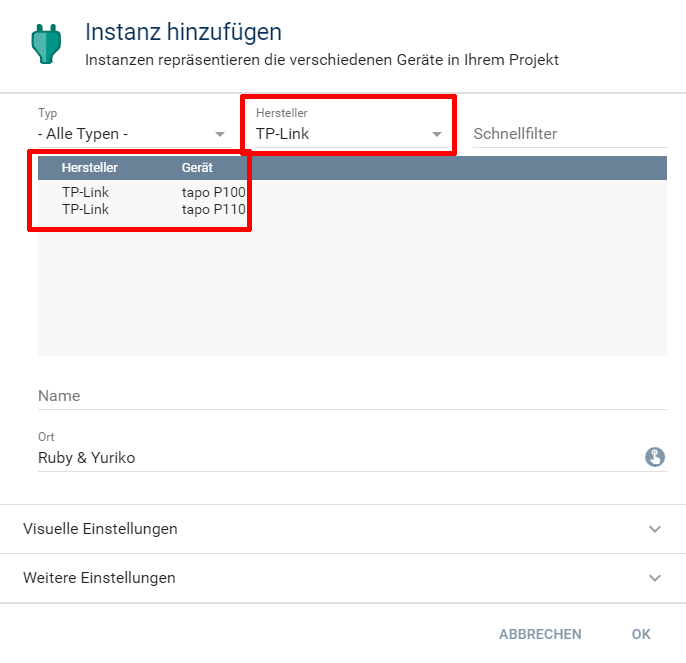
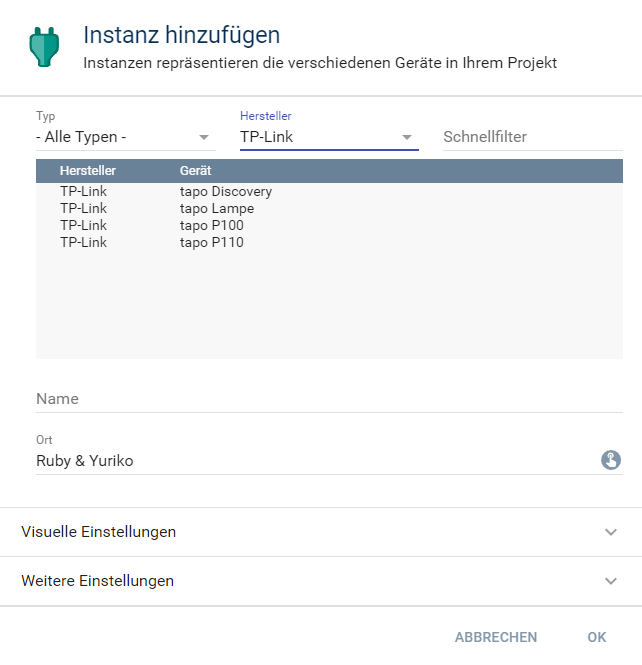
no message

diff --git a/README.md b/README.md
@@ -1,5 +1,5 @@
 [![SDK](https://img.shields.io/badge/Symcon-PHPModul-red.svg)](https://www.symcon.de/service/dokumentation/entwicklerbereich/sdk-tools/sdk-php/)
-[![Version](https://img.shields.io/badge/Modul%20Version-1.50-blue.svg)](https://community.symcon.de/t/modulk-tp-link-tapo-p100-p110/131865)
+[![Version](https://img.shields.io/badge/Modul%20Version-1.60-blue.svg)](https://community.symcon.de/t/modul-tp-link-tapo-smarthome/131865)
 [![Version](https://img.shields.io/badge/Symcon%20Version-6.1%20%3E-green.svg)](https://www.symcon.de/service/dokumentation/installation/migrationen/v60-v61-q1-2022/)  
 [![License](https://img.shields.io/badge/License-CC%20BY--NC--SA%204.0-green.svg)](https://creativecommons.org/licenses/by-nc-sa/4.0/)
 [![Check Style](https://github.com/Nall-chan/SSHClient/workflows/Check%20Style/badge.svg)](https://github.com/Nall-chan/tapo-SmartHome/actions)
@@ -13,97 +13,73 @@ Einbindung der TP-Link tapo SmartHome Geräte
 ## Inhaltsverzeichnis <!-- omit in toc -->
 
 - [1. Funktionsumfang](#1-funktionsumfang)
+  - [1. Nicht Geräte Instanzen](#1-nicht-geräte-instanzen)
+    - [tapo Discovery](#tapo-discovery)
+    - [tapo Configurator](#tapo-configurator)
+    - [tapo Gateway](#tapo-gateway)
+  - [2. Geräte Instanzen](#2-geräte-instanzen)
+    - [tapo Light](#tapo-light)
+    - [tapo P100](#tapo-p100)
+    - [tapo P110](#tapo-p110)
 - [2. Voraussetzungen](#2-voraussetzungen)
 - [3. Software-Installation](#3-software-installation)
 - [4. Einrichten der Instanzen in IP-Symcon](#4-einrichten-der-instanzen-in-ip-symcon)
-- [5. Statusvariablen](#5-statusvariablen)
-- [6. WebFront](#6-webfront)
-- [7. PHP-Funktionsreferenz](#7-php-funktionsreferenz)
-- [8. Aktionen](#8-aktionen)
-- [9. Anhang](#9-anhang)
+- [5. Anhang](#5-anhang)
   - [1. Changelog](#1-changelog)
   - [2. Spenden](#2-spenden)
-- [10. Lizenz](#10-lizenz)
+  - [6. Lizenz](#6-lizenz)
 
-## 1. Funktionsumfang
+# 1. Funktionsumfang
 
-* Lokale Steuerung der WiFi Smart Sockets    
-* Energiewerte auslesen (nur P110)  
+ Komplett lokale Kommunikation mit den Geräten.  
+ Die Geräte müssen aber in der TP-Link/tapo Cloud registriert sein, damit die lokale Anmeldung funktioniert!
 
-## 2. Voraussetzungen
+## 1. Nicht Geräte Instanzen
+
+### [tapo Discovery](Tapo%20Discovery/README.md)  
+ - Auffinden von Geräten und Hubs im Netzwerk und Anlegen der Geräte bzw. Konfigurator-Instanz inklusive Gateway in IPS.  
+
+### [tapo Configurator](Tapo%20Configurator/README.md)  
+ - Einfaches Anlegen von Geräte-Instanzen welche mit einem Smart Hub verbunden sind.  
+  (geplant; [Tester gesucht -> hier melden](https://community.symcon.de/t/modul-tp-link-tapo-smarthome/131865/))
+  
+### [tapo Gateway](Tapo%20Gateway/README.md)  
+ - Smart Hub Instanz als Bindeglied zwischen angelernten tapo Geräten und Symcon.  
+
+## 2. Geräte Instanzen
+
+### [tapo Light](Tapo%20Light/README.md)  
+  *  Lampe und LED Strip  
+
+### [tapo P100](Tapo%20P100/README.md)  
+  *  WiFi Smart Socket  
+
+### [tapo P110](Tapo%20P110/README.md)  
+  *  WiFi Smart Sockets mit Energiemessung   
+  
+# 2. Voraussetzungen
 
 - IP-Symcon ab Version 6.1
 
-## 3. Software-Installation
+# 3. Software-Installation
 
   Über den 'Module-Store' in IPS das Modul 'tapo SmartHome' hinzufügen.  
    **Bei kommerzieller Nutzung (z.B. als Errichter oder Integrator) wenden Sie sich bitte an den Autor.**  
-![Module-Store](imgs/install.png) 
+![Module-Store](imgs/install.png)  
 
-## 4. Einrichten der Instanzen in IP-Symcon
+# 4. Einrichten der Instanzen in IP-Symcon
 
- Unter `Instanz hinzufügen` sind die `tapo P100` und `tapo P110` Instanzen unter dem Hersteller `TP-Link` zu finden.  
- ![Module](imgs/module.png)  
-	- Weitere Informationen zum Hinzufügen von Instanzen in der [Dokumentation der Instanzen](https://www.symcon.de/service/dokumentation/konzepte/instanzen/#Instanz_hinzufügen)
+Details sind direkt in der Dokumentation der jeweiligen Module beschrieben.  
+Es wird empfohlen die Einrichtung mit der Discovery-Instanz zu starten ([tapo Discovery:](Tapo%20Discovery/README.md)).  
 
- ### Konfigurationsseite <!-- omit in toc -->
+# 5. Anhang
 
-**Benutzername und Passwort sind die Cloud/App Zugangsdaten!**  
-![Config](imgs/config.png)  
+## 1. Changelog
 
-| Name       | Text                           | Beschreibung                                                          |
-| ---------- | ------------------------------ | --------------------------------------------------------------------- |
-| Open       | Aktiv                          | Verbindung zu Gerät herstellen                                        |
-| Host       | Host                           | Adresse des Gerätes                                                   |
-| Username   | Benutzername                   | Benutzername für die Anmeldung (TP-Cloud Benutzername: eMail-Adresse) |
-| Password   | Passwort                       | Passwort für die Anmeldung (TP-Cloud Passwort)                        |
-| Interval   | Leseintervall                  | Intervall der Abfrage von Status und Energiewerten (in Sekunden)      |
-| AutoRename | Instanz automatisch umbenennen | Instanz erhält den Namen, welcher in der App vergeben wurde           |
-
-
-## 5. Statusvariablen
-
-| Ident | Initial Name | Typ     | Beschreibung                |
-| ----- | ------------ | ------- | --------------------------- |
-| State | Status       | boolean | Schaltzustand von dem Gerät |
-
-## 6. WebFront
-
-![Config](imgs/wf1.png)  
-
-## 7. PHP-Funktionsreferenz
-
-
-``` php
-boolean TAPOSH_SwitchMode(integer $InstanzID, bool $State);
-```
----  
-``` php
-boolean TAPOSH_SwitchModeEx(integer $InstanzID, bool $State, integer $Delay);
-```
----  
-``` php
-boolean TAPOSH_RequestState(integer $InstanzID);
-```
----  
-``` php
-array|false TAPOSH_GetDeviceInfo(integer $InstanzID);
-```
----  
-
-**Nur P110 Instanzen:**
-``` php
-array|false TAPOSH_GetEnergyUsage(integer $InstanzID);
-```
-
-
-## 8. Aktionen
-
-TODO
-
-## 9. Anhang
-
-### 1. Changelog
+Version 1.60:
+ - Discovery Modul zum einfachen auffinden von Geräten im Netzwerk ergänzt  
+ - tapo Light Modul ergänzt  
+ - Refactoring der 1.50 um weiterer Geräte und den Smart Hub zu integrieren  
 
 Version 1.50:
  - Refactoring der 1.40  
@@ -129,7 +105,7 @@ Version 1.10:
 Version 1.00:  
 - Release Version für Symcon 6.1  
 
-### 2. Spenden
+## 2. Spenden
 
   Die Library ist für die nicht kommerzielle Nutzung kostenlos, Schenkungen als Unterstützung für den Autor werden hier akzeptiert:  
 
@@ -137,7 +113,7 @@ Version 1.00:
 
 [![Wunschliste](https://img.shields.io/badge/Wunschliste-Amazon-ff69fb.svg)](https://www.amazon.de/hz/wishlist/ls/YU4AI9AQT9F?ref_=wl_share) 
 
-## 10. Lizenz
+## 6. Lizenz
 
   IPS-Modul:  
   [CC BY-NC-SA 4.0](https://creativecommons.org/licenses/by-nc-sa/4.0/)  
